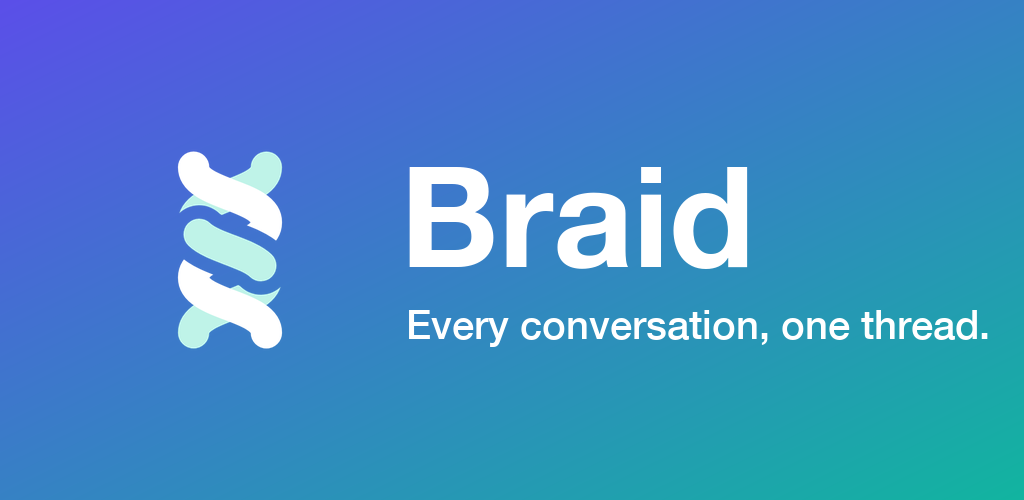
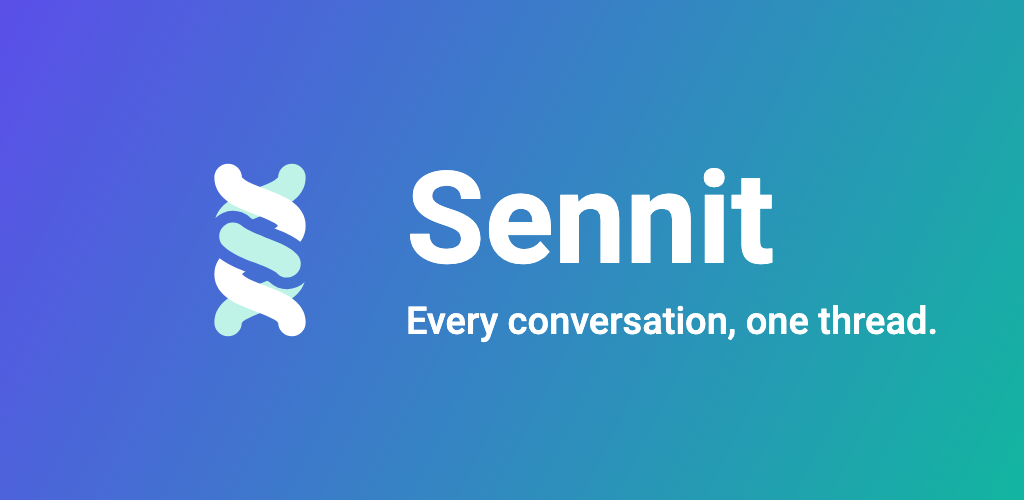
Say Sennit on the watch, widgets and share sheet, and get the listings ready
The watch app, the widgets and the share extension still called
themselves Weft. The app now declares its encryption in Info.plist so a
build no longer waits on the export compliance questions.

The privacy policy covers Sennit Pro, the store copy points at the
support page, and the feature graphic and the review screenshots are
rendered by tests under test/tools.

diff --git a/apps/weft/test/tools/pro_review_screenshot_test.dart b/apps/weft/test/tools/pro_review_screenshot_test.dart
@@ -1,0 +1,107 @@
+import 'dart:async';
+import 'dart:io';
+import 'dart:ui' as ui;
+
+import 'package:flutter/material.dart';
+import 'package:flutter/rendering.dart';
+import 'package:flutter_riverpod/flutter_riverpod.dart';
+import 'package:flutter_test/flutter_test.dart';
+import 'package:weft_design/weft_design.dart';
+import 'package:weft_store/weft_store.dart';
+
+import 'package:weft/app/billing_providers.dart';
+import 'package:weft/app/localisation.dart';
+import 'package:weft/app/providers.dart';
+import 'package:weft/app/settings.dart';
+import 'package:weft/app/stores.dart';
+import 'package:weft/data/demo_repository.dart';
+import 'package:weft/features/settings/pro_screen.dart';
+import 'package:weft/services/billing/billing_store.dart';
+import 'package:weft/services/billing/entitlements.dart';
+
+import '../support/golden_harness.dart';
+
+/// Renders the Sennit Pro purchase screen as a store build shows it, for the
+/// review screenshot App Store Connect asks for on the in-app purchase.
+///
+/// Written to `tooling/store/screenshots/iap_review_pro.png` at the 6.9"
+/// iPhone size (1320×2868). The store is a fake that offers the lifetime
+/// product at its real price.
+class _OfferingStore implements BillingStore {
+  @override
+  Stream<List<StorePurchase>> get purchases => const Stream.empty();
+
+  @override
+  Future<bool> isAvailable() async => true;
+
+  @override
+  Future<List<StoreOffer>> offers(Set<String> productIds) async => [
+    if (productIds.contains(ProProduct.lifetime.id))
+      StoreOffer(
+        productId: ProProduct.lifetime.id,
+        title: 'Sennit Pro',
+        price: '€14.99',
+      ),
+  ];
+
+  @override
+  Future<bool> buy(String productId) async => true;
+
+  @override
+  Future<void> restore() async {}
+
+  @override
+  Future<void> complete(StorePurchase purchase) async {}
+}
+
+void main() {
+  setUpAll(loadGoldenFonts);
+
+  testWidgets('iap review screenshot', (tester) async {
+    const logical = Size(440, 956);
+    const scale = 3.0;
+    tester.view.physicalSize = logical;
+    tester.view.devicePixelRatio = 1;
+    addTearDown(tester.view.reset);
+    final stores = WeftStores.inMemory();
+    addTearDown(stores.dispose);
+    debugDisableShadows = false;
+    try {
+      await tester.pumpWidget(
+        RepaintBoundary(
+          child: ProviderScope(
+            overrides: [
+              storesProvider.overrideWithValue(stores),
+              chatRepositoryProvider.overrideWithValue(DemoChatRepository()),
+              sennitEditionProvider.overrideWithValue(SennitEdition.store),
+              storeBillingPlatformProvider.overrideWithValue(true),
+              billingStoreProvider.overrideWithValue(_OfferingStore()),
+            ],
+            child: MaterialApp(
+              debugShowCheckedModeBanner: false,
+              localizationsDelegates: weftLocalizationsDelegates,
+              supportedLocales: weftSupportedLocales,
+              theme: const WeftAppearance(
+                mode: WeftThemeMode.light,
+              ).themeFor(Brightness.light),
+              home: const ProScreen(),
+            ),
+          ),
+        ),
+      );
+      await tester.pumpAndSettle();
+      final boundary = tester.renderObject<RenderRepaintBoundary>(
+        find.byType(RepaintBoundary).first,
+      );
+      await tester.runAsync(() async {
+        final image = await boundary.toImage(pixelRatio: scale);
+        final bytes = await image.toByteData(format: ui.ImageByteFormat.png);
+        File('../../tooling/store/screenshots/iap_review_pro.png')
+          ..createSync(recursive: true)
+          ..writeAsBytesSync(bytes!.buffer.asUint8List());
+      });
+    } finally {
+      debugDisableShadows = true;
+    }
+  });
+}

diff --git a/apps/weft/test/tools/feature_graphic_test.dart b/apps/weft/test/tools/feature_graphic_test.dart
@@ -1,0 +1,94 @@
+import 'dart:io';
+import 'dart:ui' as ui;
+
+import 'package:flutter/material.dart';
+import 'package:flutter/rendering.dart';
+import 'package:flutter_test/flutter_test.dart';
+import 'package:weft_design/weft_design.dart';
+
+import '../support/golden_harness.dart';
+
+/// Renders the Play Store feature graphic (1024×500) from [BrandMarkPainter]
+/// and the brand name, to `tooling/store/graphics/feature_graphic.png`.
+void main() {
+  setUpAll(loadGoldenFonts);
+
+  testWidgets('feature graphic', (tester) async {
+    const size = Size(1024, 500);
+    tester.view.physicalSize = size;
+    tester.view.devicePixelRatio = 1;
+    addTearDown(tester.view.reset);
+
+    await tester.pumpWidget(
+      const Directionality(
+        textDirection: TextDirection.ltr,
+        child: RepaintBoundary(
+          child: DecoratedBox(
+            decoration: BoxDecoration(
+              gradient: LinearGradient(
+                begin: Alignment.topLeft,
+                end: Alignment.bottomRight,
+                colors: [
+                  BrandMarkPainter.gradientStart,
+                  BrandMarkPainter.gradientEnd,
+                ],
+              ),
+            ),
+            child: Padding(
+              padding: EdgeInsets.only(left: 150),
+              child: Row(
+                children: [
+                  SizedBox.square(
+                    dimension: 220,
+                    child: CustomPaint(
+                      painter: BrandMarkPainter(background: false),
+                    ),
+                  ),
+                  SizedBox(width: 36),
+                  Column(
+                    mainAxisAlignment: MainAxisAlignment.center,
+                    crossAxisAlignment: CrossAxisAlignment.start,
+                    children: [
+                      Text(
+                        'Sennit',
+                        style: TextStyle(
+                          fontFamily: 'Roboto',
+                          fontSize: 128,
+                          fontWeight: FontWeight.w700,
+                          color: Colors.white,
+                          height: 1.05,
+                        ),
+                      ),
+                      SizedBox(height: 8),
+                      Text(
+                        'Every conversation, one thread.',
+                        style: TextStyle(
+                          fontFamily: 'Roboto',
+                          fontSize: 38,
+                          fontWeight: FontWeight.w500,
+                          color: Colors.white,
+                        ),
+                      ),
+                    ],
+                  ),
+                ],
+              ),
+            ),
+          ),
+        ),
+      ),
+    );
+
+    final boundary = tester.renderObject<RenderRepaintBoundary>(
+      find.byType(RepaintBoundary).first,
+    );
+    await tester.runAsync(() async {
+      final image = await boundary.toImage();
+      final bytes = await image.toByteData(format: ui.ImageByteFormat.png);
+      File('../../tooling/store/graphics/feature_graphic.png')
+          .writeAsBytesSync(bytes!.buffer.asUint8List());
+      expect(image.width, 1024);
+      expect(image.height, 500);
+    });
+  });
+}

diff --git a/apps/weft/ios/WeftWatch/WeftWatchState.swift b/apps/weft/ios/WeftWatch/WeftWatchState.swift
@@ -94,14 +94,14 @@ enum WeftWatchState: Hashable {
 /// single switch. The two places they differ are the two places the fact
 /// differs: this surface is the watch, and its off-switch is spelled "Watch".
 enum WeftWatchStrings {
-  static let signedOutTitle = "Sign in to Weft"
-  static let signedOutBody = "Open Weft on your phone and sign in."
+  static let signedOutTitle = "Sign in to Sennit"
+  static let signedOutBody = "Open Sennit on your phone and sign in."
 
   static let disabledTitle = "Watch is off"
-  static let disabledBody = "Open Weft on your phone and turn on Watch under Widgets & watch."
+  static let disabledBody = "Open Sennit on your phone and turn on Watch under Widgets & watch."
 
-  static let staleTitle = "Open Weft on your phone"
-  static let staleBody = "This is out of date. Open Weft to refresh it."
+  static let staleTitle = "Open Sennit on your phone"
+  static let staleBody = "This is out of date. Open Sennit to refresh it."
 
   static let emptyTitle = "No conversations"
   static let emptyBody =
@@ -114,7 +114,7 @@ enum WeftWatchStrings {
   static let replySending = "Sending…"
   static let replySent = "Sent"
 
-  static let complicationDisplayName = "Weft unread"
+  static let complicationDisplayName = "Sennit unread"
   static let complicationDescription =
     "How many unread messages you have, across every conversation."
 
@@ -151,17 +151,17 @@ enum WeftWatchStrings {
   static func replyFailure(_ failure: String?) -> String {
     switch failure {
     case WeftWatchProtocol.failureUnknownChat:
-      return "That conversation is no longer in Weft."
+      return "That conversation is no longer in Sennit."
     case WeftWatchProtocol.failureNotSignedIn:
       return "Not sent. Nobody is signed in on your phone."
     case WeftWatchProtocol.failureSendFailed:
-      return "Not sent. Open Weft on your phone to try again."
+      return "Not sent. Open Sennit on your phone to try again."
     case WeftWatchProtocol.failureTimedOut:
       return "Not sent. Your phone did not answer."
     case WeftWatchProtocol.failureOverflowed:
       return "Not sent. Too many replies at once."
     case WeftWatchProtocol.failureAppNotRunning:
-      return "Not sent. Open Weft on your phone."
+      return "Not sent. Open Sennit on your phone."
     default:
       return "Not sent"
     }

diff --git a/apps/weft/ios/WeftWidget/WeftWidgetState.swift b/apps/weft/ios/WeftWidget/WeftWidgetState.swift
@@ -107,15 +107,15 @@ enum WeftWidgetState: Hashable {
 /// entries, with "Home screen" as the only edit — it is the platform's own name
 /// for the surface, and it is capitalised differently on each.
 enum WeftWidgetStrings {
-  static let signedOutTitle = "Sign in to Weft"
-  static let signedOutBody = "Open Weft and sign in to see your conversations here."
+  static let signedOutTitle = "Sign in to Sennit"
+  static let signedOutBody = "Open Sennit and sign in to see your conversations here."
 
   static let disabledTitle = "Widgets are off"
   static let disabledBody =
-    "Open Weft and turn on Home Screen widgets under Widgets & watch."
+    "Open Sennit and turn on Home Screen widgets under Widgets & watch."
 
-  static let staleTitle = "Open Weft on your phone"
-  static let staleBody = "This is out of date. Open Weft to refresh it."
+  static let staleTitle = "Open Sennit on your phone"
+  static let staleBody = "This is out of date. Open Sennit to refresh it."
 
   static let emptyTitle = "No conversations"
   static let emptyBody =
@@ -125,9 +125,9 @@ enum WeftWidgetStrings {
   static let unreadLabel = "unread"
   static let merged = "Merged conversation"
 
-  static let inboxDisplayName = "Weft conversations"
+  static let inboxDisplayName = "Sennit conversations"
   static let inboxDescription = "Your most recent conversations. Tap one to open it."
-  static let unreadDisplayName = "Weft unread"
+  static let unreadDisplayName = "Sennit unread"
   static let unreadDescription =
     "How many unread messages you have, across every conversation."
 

diff --git a/PRIVACY.md b/PRIVACY.md
@@ -3,7 +3,7 @@
 *Published at <https://erictrenkel.com/apps/braid/privacy.html> — that
 hosted copy is the one the app stores link to.*
 
-*Effective: 25 August 2026*
+*Effective: 15 November 2026*
 
 Sennit is a self-hosted messenger. It is designed so that the developer of
 Sennit **cannot** see your data — there is no Sennit cloud, no account with us,
@@ -13,7 +13,24 @@ and no telemetry.
 
 Nothing. The app contains no analytics, no crash reporting service, no
 advertising SDKs, and no tracking of any kind. The developer operates no
-server that the app talks to.
+server that your messages or contacts ever reach. The one exception, licence
+checks in builds downloaded outside the app stores, is described under
+*Sennit Pro* below.
+
+## Sennit Pro
+
+Sennit Pro is an optional one-time purchase.
+
+- **From the App Store or Google Play:** Apple or Google handle the payment
+  and tell the app whether you own Pro. The developer receives the store's
+  usual sales reports, which contain no messages, contacts or other content
+  from the app.
+- **Builds downloaded from the project's release page:** you buy a licence
+  key through Stripe. Stripe processes the payment, and the developer keeps
+  your email address and licence key to deliver and support the licence.
+  When you enter the key, the app sends **the key and nothing else** — no
+  device id, account or app data — to the developer's licence service to
+  check that it is valid.
 
 ## Where your data goes
 

diff --git a/tooling/store/copy.md b/tooling/store/copy.md
@@ -75,8 +75,8 @@ inbox on your own Matrix server. No cloud between you and your messages.
 
 | Field | Value |
 |---|---|
-| Support URL | https://github.com/bostrot/sennit |
-| Marketing URL | https://github.com/bostrot/sennit |
+| Support URL | https://erictrenkel.com/apps/sennit/ |
+| Marketing URL | https://erictrenkel.com/apps/sennit/ |
 | Privacy policy | https://erictrenkel.com/apps/braid/privacy.html |
 
 ## Categories
